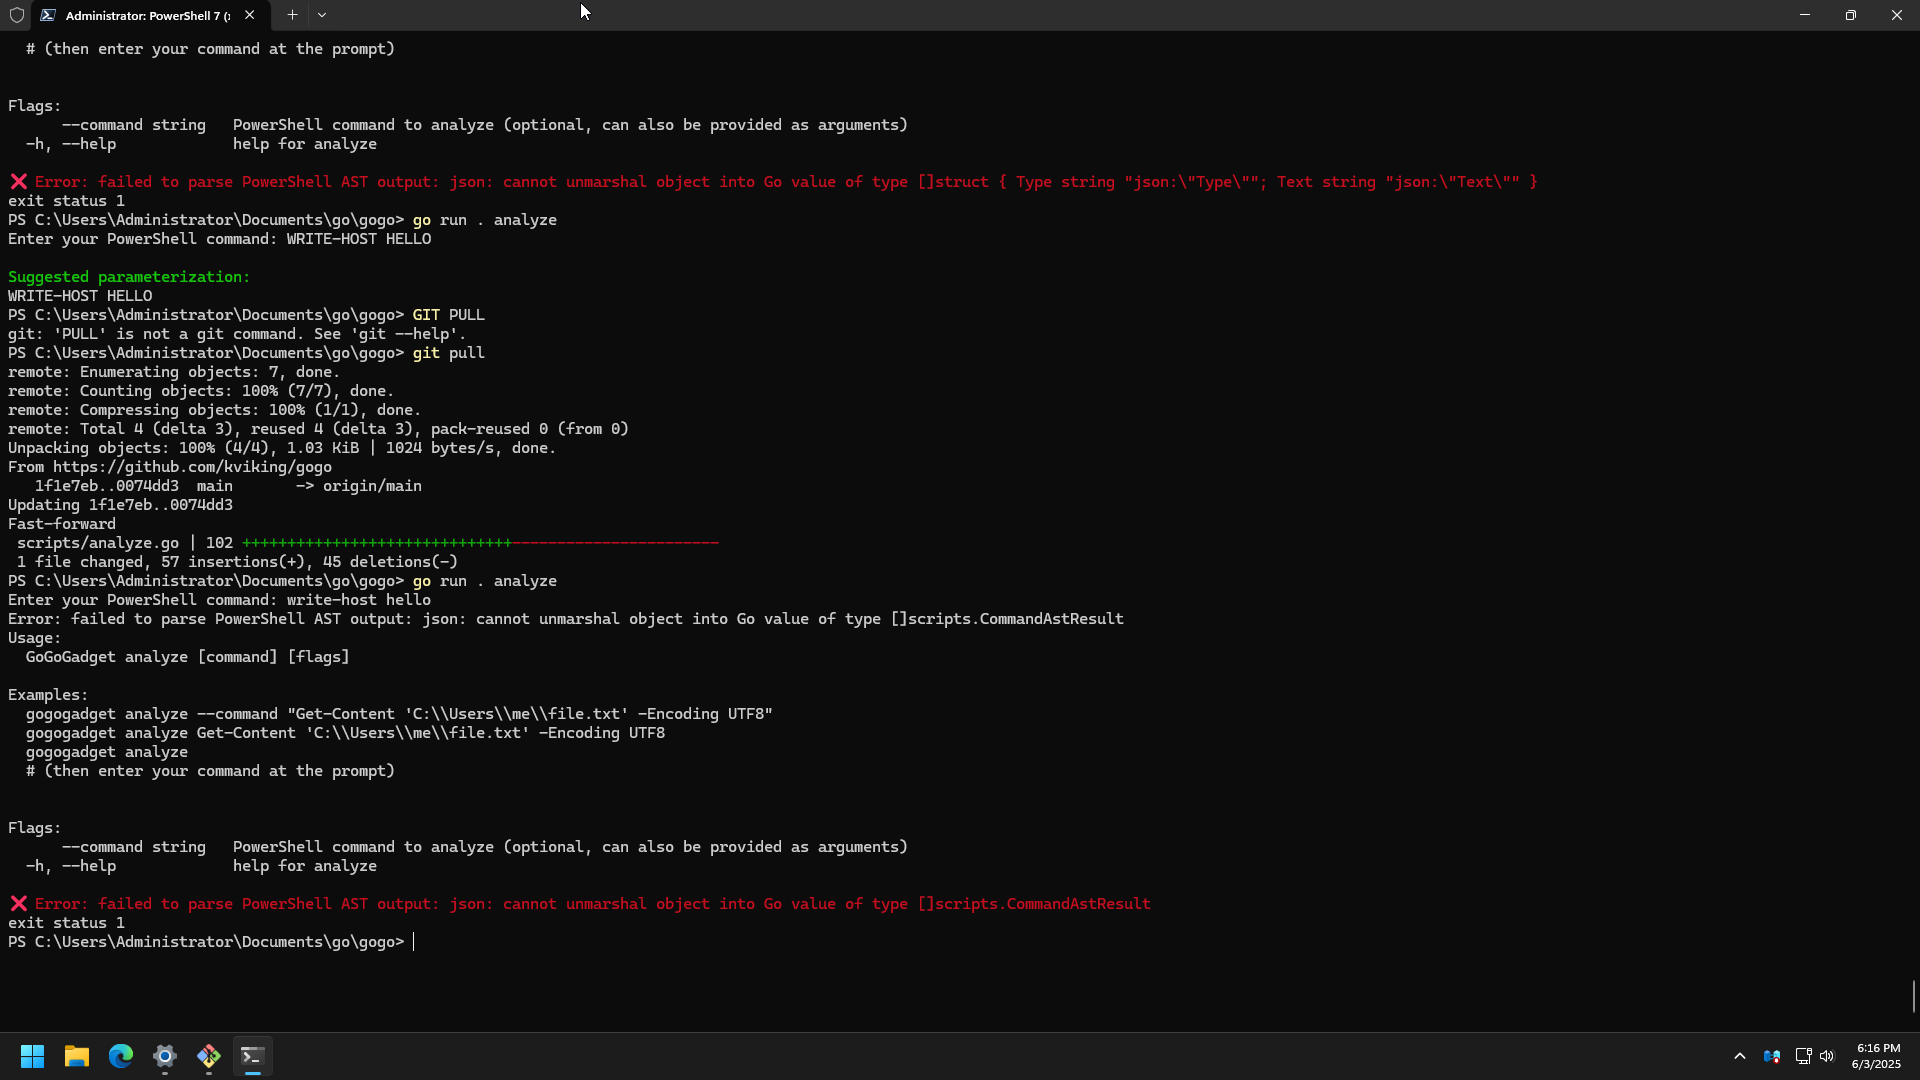
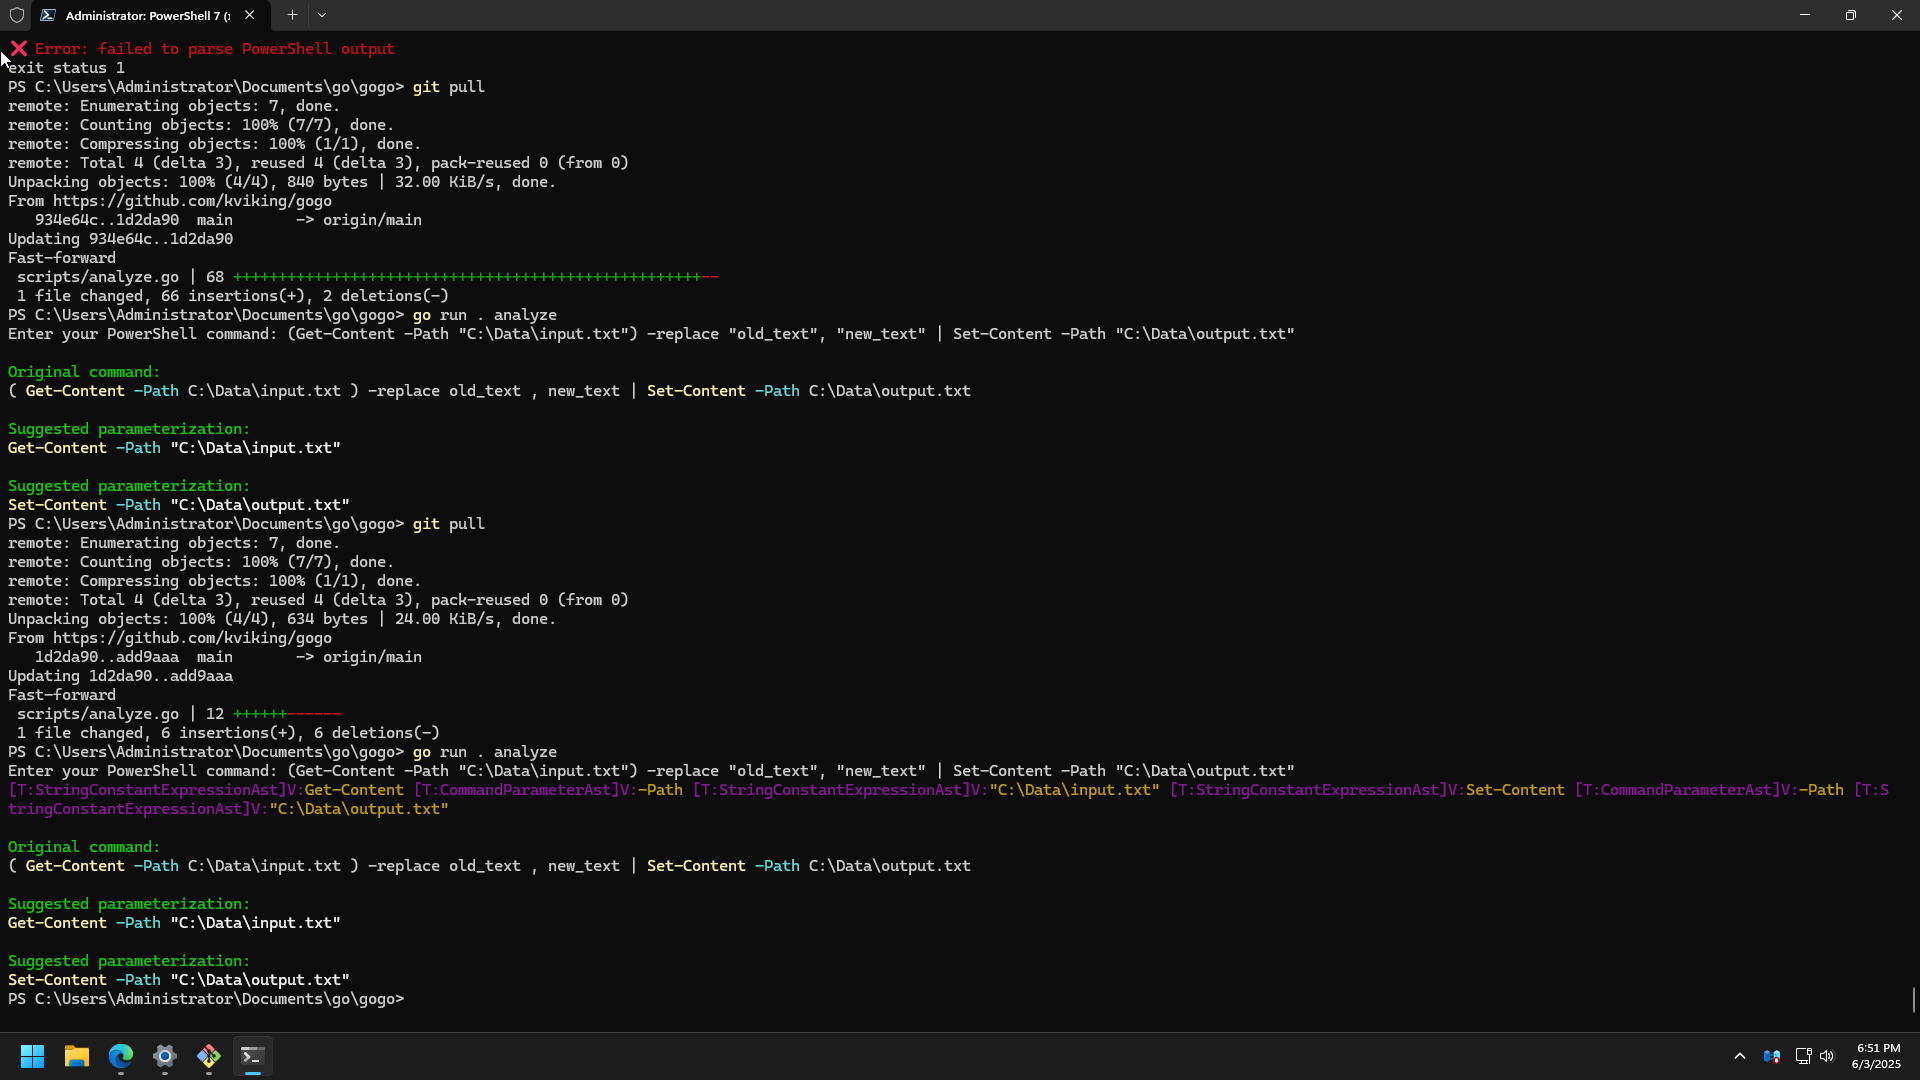
feat: Update go.mod and go.sum for new dependencies; enhance Analyze function with syntax highlighting and variable suggestions

diff --git a/scripts/analyze.go b/scripts/analyze.go
@@ -2,65 +2,19 @@ package scripts
 
 import (
 	"bufio"
-	"bytes"
-	"encoding/json"
 	"fmt"
 	"os"
-	"os/exec"
 	"strings"
 
+	"github.com/alecthomas/chroma"
+	"github.com/alecthomas/chroma/formatters"
+	"github.com/alecthomas/chroma/lexers"
+	"github.com/alecthomas/chroma/styles"
 	"github.com/fatih/color"
 	"github.com/spf13/cobra"
 )
 
-type PSToken struct {
-	Content interface{} `json:"Content"`
-	Type    interface{} `json:"Type"`
-}
-
-var knownCommands map[string]struct{}
-
-// getKnownCommands dynamically loads all available PowerShell command names
-func getKnownCommands() map[string]struct{} {
-	if knownCommands != nil {
-		return knownCommands
-	}
-	cmd := exec.Command("pwsh", "-NoProfile", "-Command", "Get-Command | Select-Object -ExpandProperty Name | ConvertTo-Json")
-	var out bytes.Buffer
-	cmd.Stdout = &out
-	err := cmd.Run()
-	if err != nil {
-		knownCommands = map[string]struct{}{}
-		return knownCommands
-	}
-	var names []string
-	if err := json.Unmarshal(out.Bytes(), &names); err != nil {
-		knownCommands = map[string]struct{}{}
-		return knownCommands
-	}
-	m := make(map[string]struct{}, len(names))
-	for _, n := range names {
-		m[strings.ToLower(n)] = struct{}{}
-	}
-	knownCommands = m
-	return knownCommands
-}
-
-// Helper to check if a string is a known PowerShell command
-func isKnownCommand(s string) bool {
-	s = strings.ToLower(s)
-	if strings.Contains(s, "-") {
-		parts := strings.SplitN(s, "-", 2)
-		if len(parts) == 2 && len(parts[0]) > 0 && len(parts[1]) > 0 {
-			return true
-		}
-	}
-	_, ok := getKnownCommands()[s]
-	return ok
-}
-
-// Analyze prompts for a PowerShell command, tokenizes it, and highlights likely user-input sections with descriptions.
-// If command is empty, it prompts the user.
+// Analyze prompts for a PowerShell command, highlights it, and suggests likely user-input variables.
 func Analyze(command ...string) error {
 	var cmdStr string
 	if len(command) > 0 && strings.TrimSpace(strings.Join(command, " ")) != "" {
@@ -72,229 +26,61 @@ func Analyze(command ...string) error {
 		cmdStr = strings.TrimSpace(input)
 	}
 
-	// Define highlightColor and descColor at the top of the function so they are available everywhere
-	highlightColor := color.New(color.FgHiYellow, color.Bold).SprintFunc()
-	descColor := color.New(color.FgCyan).SprintFunc()
-
-	// Use PowerShell AST and Tokenizer to get full token list and AST analysis
-	psScript := fmt.Sprintf(`
-$ErrorActionPreference = 'Stop'
-$source = @'
-%s
-'@
-$tokens = [System.Management.Automation.PSParser]::Tokenize($source, [ref]$null)
-$ast = [System.Management.Automation.Language.Parser]::ParseInput($source, [ref]$null, [ref]$null)
-$cmdAsts = $ast.FindAll({$args[0] -is [System.Management.Automation.Language.CommandAst]}, $true)
-[PSCustomObject]@{
-    Tokens = @($tokens | Select-Object Type, Content)
-    Commands = @($cmdAsts | ForEach-Object {
-        [PSCustomObject]@{
-            CommandName = if ($_.CommandElements.Count -gt 0) { $_.CommandElements[0].Value } else { $null }
-            Elements = @($_.CommandElements | Select-Object @{n='Type';e={ $_.GetType().Name }}, @{n='Text';e={ $_.ToString() }})
-        }
-    })
-} | ConvertTo-Json -Depth 5
-`, strings.ReplaceAll(cmdStr, "'", "''"))
-	cmd := exec.Command("pwsh", "-NoProfile", "-Command", psScript)
-
-	var out bytes.Buffer
-	var stderr bytes.Buffer
-	cmd.Stdout = &out
-	cmd.Stderr = &stderr
-	err := cmd.Run()
+	fmt.Println(color.New(color.FgGreen, color.Bold).Sprint("\nOriginal command (syntax highlighted):"))
+	lexer := lexers.Get("powershell")
+	if lexer == nil {
+		return fmt.Errorf("could not get PowerShell lexer")
+	}
+	iterator, err := lexer.Tokenise(nil, cmdStr)
 	if err != nil {
-		fmt.Fprintf(os.Stderr, "PowerShell error output: %s\n", stderr.String())
-		return fmt.Errorf("failed to run PowerShell: %w", err)
+		return fmt.Errorf("failed to tokenize command: %w", err)
 	}
+	formatter := formatters.Get("terminal16m")
+	style := styles.Get("monokai")
+	if err := formatter.Format(os.Stdout, style, iterator); err != nil {
+		return fmt.Errorf("failed to format highlighted command: %w", err)
+	}
+	fmt.Println()
 
-	jsonOut := strings.TrimSpace(out.String())
-	if jsonOut == "" {
-		fmt.Fprintf(os.Stderr, "PowerShell error output: %s\n", stderr.String())
-		return fmt.Errorf("PowerShell AST output was empty")
+	// Suggest variables for string tokens
+	iterator, err = lexer.Tokenise(nil, cmdStr)
+	if iterator == nil {
+		return fmt.Errorf("failed to tokenize command for variable suggestion")
 	}
-
-	// Check if output is valid JSON (starts with '{' and ends with '}')
-	if !strings.HasPrefix(jsonOut, "{") || !strings.HasSuffix(jsonOut, "}") {
-		fmt.Fprintf(os.Stderr, "PowerShell output was not valid JSON. Raw output:\n%s\n", jsonOut)
-		return fmt.Errorf("PowerShell output was not valid JSON")
-	}
-
-	// Parse the combined output
-	type Token struct {
-		Type    int    `json:"Type"`
-		Content string `json:"Content"`
-	}
-	type CommandAstResult struct {
-		CommandName string `json:"CommandName"`
-		Elements    []struct {
-			Type string `json:"Type"`
-			Text string `json:"Text"`
-		} `json:"Elements"`
-	}
-	type CombinedResult struct {
-		Tokens   []Token            `json:"Tokens"`
-		Commands []CommandAstResult `json:"Commands"`
-	}
-	var result CombinedResult
-	if err := json.Unmarshal([]byte(jsonOut), &result); err != nil {
-		fmt.Fprintf(os.Stderr, "Error: failed to parse PowerShell output: %v\nRaw output: %s\n", err, jsonOut)
-		return fmt.Errorf("failed to parse PowerShell output")
-	}
-
-	// Helper: map PSToken type int to string name for highlighting
-	psTokenTypeName := func(t int) string {
-		switch t {
-		case 0:
-			return "Unknown"
-		case 1:
-			return "Command"
-		case 2:
-			return "CommandParameter"
-		case 3:
-			return "Number"
-		case 4:
-			return "String"
-		case 5:
-			return "Variable"
-		case 6:
-			return "Member"
-		case 7:
-			return "LoopLabel"
-		case 8:
-			return "Attribute"
-		case 9:
-			return "Type"
-		case 10:
-			return "Keyword"
-		case 11:
-			return "Comment"
-		case 12:
-			return "StatementSeparator"
-		case 13:
-			return "GroupStart"
-		case 14:
-			return "GroupEnd"
-		case 15:
-			return "CurlyBracketStart"
-		case 16:
-			return "CurlyBracketEnd"
-		case 17:
-			return "SquareBracketStart"
-		case 18:
-			return "SquareBracketEnd"
-		case 19:
-			return "LineContinuation"
-		case 20:
-			return "NewLine"
-		case 21:
-			return "Whitespace"
-		case 22:
-			return "StringExpandable"
-		case 23:
-			return "HereStringExpandable"
-		case 24:
-			return "HereString"
-		case 25:
-			return "Operator"
-		case 26:
-			return "VariableExpandable"
-		case 27:
-			return "EmbeddedCommand"
-		default:
-			return "Other"
+	var suggestions []string
+	varCounters := map[string]int{"string": 0, "number": 0, "variable": 0}
+	for token := iterator(); token.Type != chroma.EOF.Type; token = iterator() {
+		typeStr := token.Type.String()
+		if strings.HasPrefix(typeStr, "Literal.String") {
+			varCounters["string"]++
+			varName := "string"
+			if varCounters["string"] > 1 {
+				varName = fmt.Sprintf("string%d", varCounters["string"])
+			}
+			suggestions = append(suggestions, fmt.Sprintf("%s ← was %s", color.New(color.FgHiYellow, color.Bold).Sprint(varName), color.New(color.FgCyan).Sprint(token.Value)))
+		}
+		if strings.HasPrefix(typeStr, "Literal.Number") {
+			varCounters["number"]++
+			varName := "number"
+			if varCounters["number"] > 1 {
+				varName = fmt.Sprintf("number%d", varCounters["number"])
+			}
+			suggestions = append(suggestions, fmt.Sprintf("%s ← was %s", color.New(color.FgHiYellow, color.Bold).Sprint(varName), color.New(color.FgCyan).Sprint(token.Value)))
+		}
+		if typeStr == "Name.Variable" {
+			varCounters["variable"]++
+			varName := "variable"
+			if varCounters["variable"] > 1 {
+				varName = fmt.Sprintf("variable%d", varCounters["variable"])
+			}
+			suggestions = append(suggestions, fmt.Sprintf("%s ← was %s", color.New(color.FgHiYellow, color.Bold).Sprint(varName), color.New(color.FgCyan).Sprint(token.Value)))
 		}
 	}
 
-	// Build a set of AST argument values for highlighting
-	astArgs := make(map[string]struct{})
-	debugTypeColor := color.New(color.FgMagenta).SprintFunc()
-	debugValColor := color.New(color.FgYellow).SprintFunc()
-	for _, cmd := range result.Commands {
-		for _, el := range cmd.Elements {
-			// Compact, colored debug output: [T:Type]V:Value
-			fmt.Fprintf(os.Stderr, "%s%s%s%s ", debugTypeColor("[T:"), debugTypeColor(el.Type), debugTypeColor("]V:"), debugValColor(el.Text))
-			if (el.Type == "StringConstantExpressionAst" || el.Type == "ExpandableStringExpressionAst") && !isKnownCommand(el.Text) {
-				astArgs[el.Text] = struct{}{}
-			}
-		}
-	}
-	fmt.Fprintln(os.Stderr) // Newline after debug output
-
-	// Print the user's original command, syntax highlighted using the tokenizer and AST
-	fmt.Println(color.New(color.FgGreen, color.Bold).Sprint("\nOriginal command:"))
-	var origHighlighted []string
-	for _, t := range result.Tokens {
-		if _, isArg := astArgs[t.Content]; isArg {
-			origHighlighted = append(origHighlighted, highlightColor("{{"+t.Content+"}}"))
-		} else if isKnownCommand(t.Content) {
-			origHighlighted = append(origHighlighted, highlightColor(t.Content))
-		} else if psTokenTypeName(t.Type) == "CommandParameter" {
-			origHighlighted = append(origHighlighted, color.New(color.FgCyan, color.Bold).Sprint(t.Content))
-		} else {
-			origHighlighted = append(origHighlighted, t.Content)
-		}
-	}
-	fmt.Println(strings.Join(origHighlighted, " "))
-
-	// Print parameterization for each command as before
-	var descriptions []string
-	varCounters := map[string]int{"string": 0, "path": 0}
-	for _, cmdAst := range result.Commands {
-		astTokens := cmdAst.Elements
-		var cmdHighlighted []string
-		commandIdx := -1
-		for i, t := range astTokens {
-			if t.Type == "StringConstantExpressionAst" && isKnownCommand(t.Text) {
-				commandIdx = i
-				break
-			}
-		}
-		for i := 0; i < len(astTokens); i++ {
-			t := astTokens[i]
-			if i == commandIdx {
-				cmdHighlighted = append(cmdHighlighted, highlightColor(t.Text))
-				continue
-			}
-			if t.Type == "StringConstantExpressionAst" {
-				prevIsParam := false
-				for j := i - 1; j >= 0; j-- {
-					if astTokens[j].Type == "CommandAst" {
-						continue
-					}
-					if astTokens[j].Type == "CommandParameterAst" {
-						prevIsParam = true
-					}
-					break
-				}
-				if !prevIsParam && !isKnownCommand(t.Text) {
-					varCounters["string"]++
-					var varName string
-					if varCounters["string"] == 1 {
-						varName = "string"
-					} else {
-						varName = fmt.Sprintf("string%d", varCounters["string"])
-					}
-					cmdHighlighted = append(cmdHighlighted, highlightColor("{{"+varName+"}}"))
-					descriptions = append(descriptions, fmt.Sprintf("%s %s", highlightColor(varName), descColor(fmt.Sprintf("\u2190 was '%s', positional argument (type: %s)", t.Text, t.Type))))
-					continue
-				}
-				cmdHighlighted = append(cmdHighlighted, color.New(color.FgHiWhite).Sprint(t.Text))
-				continue
-			}
-			if t.Type == "CommandParameterAst" {
-				cmdHighlighted = append(cmdHighlighted, color.New(color.FgCyan, color.Bold).Sprint(t.Text))
-				continue
-			}
-			cmdHighlighted = append(cmdHighlighted, t.Text)
-		}
-		fmt.Println(color.New(color.FgGreen, color.Bold).Sprint("\nSuggested parameterization:"))
-		fmt.Println(strings.Join(cmdHighlighted, " "))
-	}
-
-	if len(descriptions) > 0 {
-		fmt.Println(color.New(color.FgGreen, color.Bold).Sprint("\nDescriptions of highlighted sections:"))
-		for _, desc := range descriptions {
-			fmt.Println("  " + desc)
+	if len(suggestions) > 0 {
+		fmt.Println(color.New(color.FgGreen, color.Bold).Sprint("\nSuggested variables:"))
+		for _, s := range suggestions {
+			fmt.Println("  ", s)
 		}
 	}
 	return nil
@@ -309,7 +95,7 @@ func NewAnalyzeCommand() *cobra.Command {
 		Short: "Analyze a PowerShell command and highlight likely user input sections",
 		Long: `Analyze a PowerShell one-liner and highlight sections that are likely to be user input, such as file paths, strings, or numbers.
 
-If you don't know what parts of your command to make into variables, this is where to start. This tool uses PowerShell's tokenizer to make educated guesses about which parts of your command might work. Drop in your working command, and it will suggest how to parameterize it.
+If you don't know what parts of your command to make into variables, this is where to start. This tool uses syntax highlighting to make educated guesses about which parts of your command might work. Drop in your working command, and it will suggest how to parameterize it.
 
 Highlighted sections and their descriptions are guesses only—please review, test, and adjust as needed for your use case.
 

diff --git a/main.go b/main.go
@@ -92,3 +92,10 @@ Use 'GoGoGadget add' to create a new shortcut, 'GoGoGadget list' to see all, or 
 		os.Exit(1)
 	}
 }
+
+// =====================  ATTENTION!  =====================
+// =                                                     =
+// =  fix the settings.json permissions so it can be      =
+// =  written to by GoGoGadget                           =
+// =                                                     =
+// =======================================================
